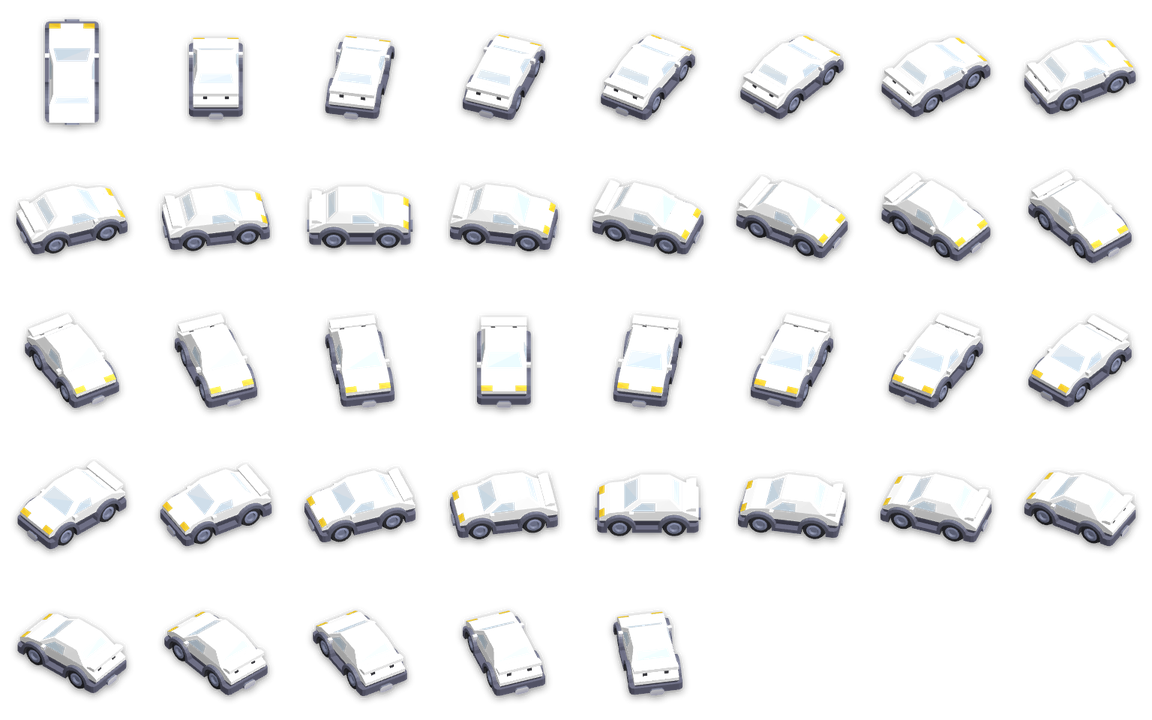
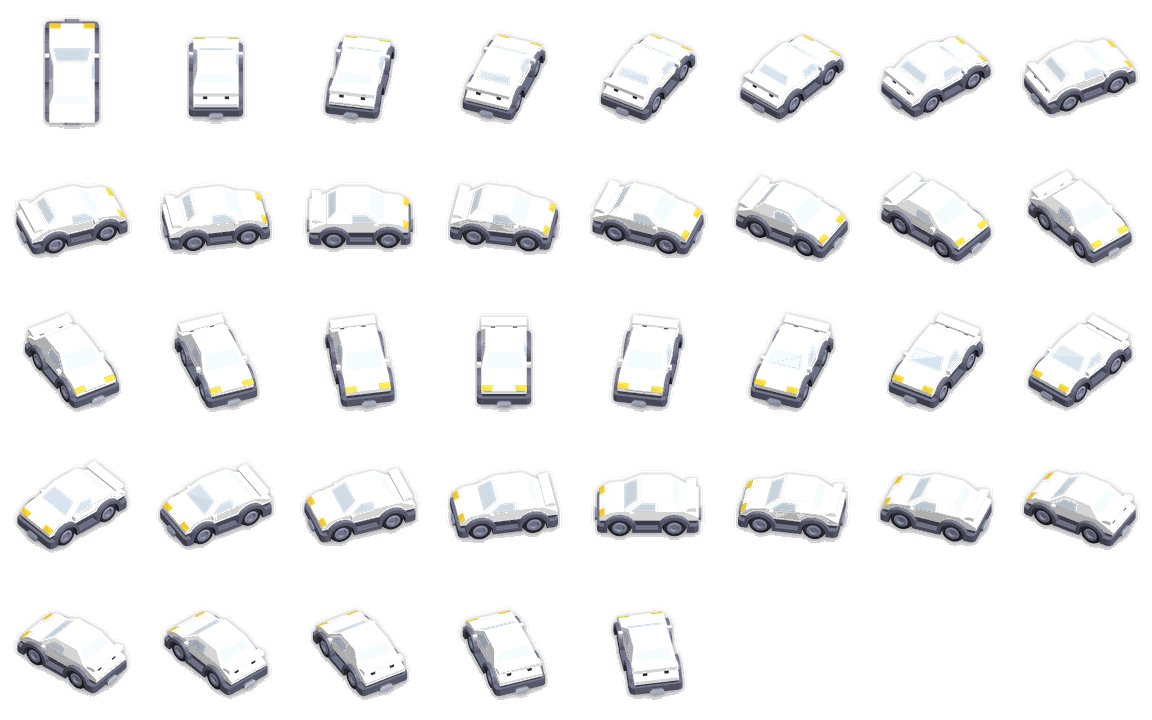
Cabrio als Form, scharfe Vorschau in der Garage (288 px Bogen); Haupt Reiter Inter ExtraBold, inaktiv dunkler (Variante D)
Claude-Session: https://claude.ai/code/session_01SXf38QvTJENXvqTHvojj2Z

diff --git a/app/src/components/map/car-sprite.tsx b/app/src/components/map/car-sprite.tsx
@@ -12,12 +12,13 @@ import { Gesture, GestureDetector, GestureHandlerRootView } from 'react-native-g
 
 import type { Vehicle } from '@/lib/vehicle';
 
-export type CarForm = 'coupe' | 'coupe-fluegel' | 'fastback' | 'limousine' | 'gelaende';
+export type CarForm = 'coupe' | 'coupe-fluegel' | 'cabrio' | 'fastback' | 'limousine' | 'gelaende';
 export type CarLook = { form: CarForm; color: string };
 
 export const CAR_FORMS: { id: CarForm; label: string }[] = [
   { id: 'coupe', label: 'Coupé' },
   { id: 'coupe-fluegel', label: 'Coupé mit Flügel' },
+  { id: 'cabrio', label: 'Cabrio' },
   { id: 'fastback', label: 'Fastback' },
   { id: 'limousine', label: 'Limousine' },
   { id: 'gelaende', label: 'Geländewagen' },
@@ -36,12 +37,15 @@ export const CAR_COLORS: { id: string; label: string }[] = [
 
 export const DEFAULT_LOOK: CarLook = { form: 'coupe', color: '#C4161C' };
 
-const SHEETS: Record<CarForm, { o: number; m: number }> = {
-  coupe: { o: require('@/assets/cars/coupe-o.png'), m: require('@/assets/cars/coupe-m.png') },
-  'coupe-fluegel': { o: require('@/assets/cars/sedan-sports-o.png'), m: require('@/assets/cars/sedan-sports-m.png') },
-  fastback: { o: require('@/assets/cars/hatchback-sports-o.png'), m: require('@/assets/cars/hatchback-sports-m.png') },
-  limousine: { o: require('@/assets/cars/sedan-o.png'), m: require('@/assets/cars/sedan-m.png') },
-  gelaende: { o: require('@/assets/cars/suv-o.png'), m: require('@/assets/cars/suv-m.png') },
+type Sheet = { o: number; m: number; ol: number; ml: number };
+/** Je Form ein Bogen für die Karte (144 px je Ansicht) und einer für die Vorschau in der Garage (288 px) */
+const SHEETS: Record<CarForm, Sheet> = {
+  coupe: { o: require('@/assets/cars/coupe-o.png'), m: require('@/assets/cars/coupe-m.png'), ol: require('@/assets/cars/coupe-o-l.png'), ml: require('@/assets/cars/coupe-m-l.png') },
+  'coupe-fluegel': { o: require('@/assets/cars/sedan-sports-o.png'), m: require('@/assets/cars/sedan-sports-m.png'), ol: require('@/assets/cars/sedan-sports-o-l.png'), ml: require('@/assets/cars/sedan-sports-m-l.png') },
+  cabrio: { o: require('@/assets/cars/cabrio-o.png'), m: require('@/assets/cars/cabrio-m.png'), ol: require('@/assets/cars/cabrio-o-l.png'), ml: require('@/assets/cars/cabrio-m-l.png') },
+  fastback: { o: require('@/assets/cars/hatchback-sports-o.png'), m: require('@/assets/cars/hatchback-sports-m.png'), ol: require('@/assets/cars/hatchback-sports-o-l.png'), ml: require('@/assets/cars/hatchback-sports-m-l.png') },
+  limousine: { o: require('@/assets/cars/sedan-o.png'), m: require('@/assets/cars/sedan-m.png'), ol: require('@/assets/cars/sedan-o-l.png'), ml: require('@/assets/cars/sedan-m-l.png') },
+  gelaende: { o: require('@/assets/cars/suv-o.png'), m: require('@/assets/cars/suv-m.png'), ol: require('@/assets/cars/suv-o-l.png'), ml: require('@/assets/cars/suv-m-l.png') },
 };
 
 /** Ansicht für die Fahrtrichtung relativ zur Kamera in Grad (0 = von hinten, Auto fährt nach oben) */
@@ -56,8 +60,9 @@ export function CarSprite({ look, frame, size, rotation }: { look: CarLook; fram
   const img = { position: 'absolute' as const, width: size * 8, height: size * 5, left: -col * size, top: -row * size };
   return (
     <View style={[styles.box, { width: size, height: size }, rotation ? { transform: [{ rotate: `${rotation}deg` }] } : null]} pointerEvents="none">
-      <Image source={sheet.m} style={[img, { tintColor: look.color }]} fadeDuration={0} />
-      <Image source={sheet.o} style={img} fadeDuration={0} />
+      {/* ab 80 pt der scharfe Bogen (Vorschau), auf der Karte der kleine */}
+      <Image source={size > 80 ? sheet.ml : sheet.m} style={[img, { tintColor: look.color }]} fadeDuration={0} />
+      <Image source={size > 80 ? sheet.ol : sheet.o} style={img} fadeDuration={0} />
     </View>
   );
 }

diff --git a/app/src/components/planner/web-styles.ts b/app/src/components/planner/web-styles.ts
@@ -24,8 +24,8 @@ export const S: Record<string, CSSProperties> = {
   navOn: { height: 44, padding: '0 16px', borderRadius: 22, border: 'none', background: C.surface2, color: C.text, font: `700 15px ${BODY}`, cursor: 'pointer' },
   navOff: { height: 44, padding: '0 16px', borderRadius: 22, border: 'none', background: 'transparent', color: C.muted, font: `700 15px ${BODY}`, cursor: 'pointer' },
   typoTabs: { display: 'flex', gap: 18, padding: '12px 24px 4px', alignItems: 'baseline' },
-  typoOn: { background: 'none', border: 'none', padding: 0, cursor: 'pointer', fontFamily: BODY, fontWeight: 700, fontSize: 26, color: C.text, lineHeight: 1.25 },
-  typoOff: { background: 'none', border: 'none', padding: 0, cursor: 'pointer', fontFamily: BODY, fontWeight: 700, fontSize: 26, color: '#6E6E73', lineHeight: 1.25 },
+  typoOn: { background: 'none', border: 'none', padding: 0, cursor: 'pointer', fontFamily: BODY, fontWeight: 800, letterSpacing: -0.3, fontSize: 26, color: C.text, lineHeight: 1.25 },
+  typoOff: { background: 'none', border: 'none', padding: 0, cursor: 'pointer', fontFamily: BODY, fontWeight: 800, letterSpacing: -0.3, fontSize: 26, color: '#57575C', lineHeight: 1.25 },
   tabHint: { color: C.muted, margin: '6px 24px 0', fontSize: 15, lineHeight: 1.4 },
   acc: { display: 'flex', flexDirection: 'column', borderTop: `1px solid ${C.surface2}` },
   accHead: { display: 'flex', alignItems: 'center', gap: 12, padding: '16px 0', background: 'none', border: 'none', color: C.text, cursor: 'pointer', textAlign: 'left' },

diff --git a/app/src/app/_layout.tsx b/app/src/app/_layout.tsx
@@ -8,6 +8,7 @@ import { Inter_400Regular } from '@expo-google-fonts/inter/400Regular';
 import { Inter_500Medium } from '@expo-google-fonts/inter/500Medium';
 import { Inter_600SemiBold } from '@expo-google-fonts/inter/600SemiBold';
 import { Inter_700Bold } from '@expo-google-fonts/inter/700Bold';
+import { Inter_800ExtraBold } from '@expo-google-fonts/inter/800ExtraBold';
 import { useFonts } from 'expo-font';
 
 import { loadHighlightFeedback } from '@/lib/highlight-feedback';
@@ -56,6 +57,7 @@ export default function RootLayout() {
     Inter_500Medium,
     Inter_600SemiBold,
     Inter_700Bold,
+    Inter_800ExtraBold,
   });
 
   // In der App nur mit Konto: Touren, Fahrten und Fahrzeuge liegen im Konto (der Web Planer bleibt offen)

diff --git a/app/src/components/planner/planner-styles.ts b/app/src/components/planner/planner-styles.ts
@@ -46,7 +46,7 @@ export const styles = StyleSheet.create({
 
   typoTabs: { flexDirection: 'row', flexWrap: 'wrap', alignItems: 'baseline', columnGap: 20 },
   // Reiter sind Bedienelemente: Inter Bold, normal geschrieben (Koray 9.11.)
-  typoTab: { fontFamily: Fonts.bold, fontSize: Type.tab, lineHeight: Leading.tab, color: Colors.faint },
+  typoTab: { fontFamily: Fonts.extrabold, fontSize: Type.tab, lineHeight: Leading.tab, letterSpacing: -0.3, color: Colors.tabOff },
   typoTabOn: { color: Colors.text },
   segment: { flexDirection: 'row', backgroundColor: Colors.surface, borderRadius: Radius.pill, padding: Spacing.xs },
   segItem: { flex: 1, height: 38, borderRadius: Radius.pill, alignItems: 'center', justifyContent: 'center' },

diff --git a/app/src/constants/theme.ts b/app/src/constants/theme.ts
@@ -13,6 +13,8 @@ export const Colors = {
   muted: '#9A9A9F',
   /** Inaktive Typo Tabs: deutlich zurückgenommen, ab 24 px noch über 3 zu 1 auf ground. */
   faint: '#6E6E73',
+  /** Inaktive Haupt Reiter, deutlich zurück (Variante D, etwa 2,7 zu 1, bewusst gewählt) */
+  tabOff: '#57575C',
   signal: '#E2461C',
   good: '#4CC38A',
   warn: '#E8B03A',
@@ -97,6 +99,8 @@ export const Fonts = {
   medium: 'Inter_500Medium',
   semibold: 'Inter_600SemiBold',
   bold: 'Inter_700Bold',
+  /** Haupt Reiter (Tour planen, Rundtour; Gespeichert, Gefahren), Koray 9.11. Variante D */
+  extrabold: 'Inter_800ExtraBold',
 } as const;
 
 export const Spacing = {

diff --git a/app/src/lib/vehicle.ts b/app/src/lib/vehicle.ts
@@ -26,7 +26,7 @@ export type Vehicle = {
   /** Symbol auf der Karte: Pfeil oder das eigene Auto (gts997 war der Test vom 6.11., gilt wie auto) */
   mapSymbol?: 'pfeil' | 'gts997' | 'auto';
   /** Form und Lackfarbe des Kartensymbols (components/map/car-sprite.tsx) */
-  look?: { form: 'coupe' | 'coupe-fluegel' | 'fastback' | 'limousine' | 'gelaende'; color: string };
+  look?: { form: 'coupe' | 'coupe-fluegel' | 'cabrio' | 'fastback' | 'limousine' | 'gelaende'; color: string };
 };
 
 export const FUELS: { id: Fuel; label: string }[] = [

diff --git a/app/assets/cars/README.md b/app/assets/cars/README.md
@@ -1,13 +1,14 @@
 # Kartensymbole der Fahrzeuge
 
 Platzhalter aus dem Kenney Car Kit 3.1, Lizenz CC0 (https://kenney.nl, Creative Commons Zero).
-Modelle: sedan-sports (Coupé mit Flügel, ohne Spoiler als Coupé), hatchback-sports (Fastback), sedan (Limousine), suv (Geländewagen).
+Modelle: sedan-sports (Coupé mit Flügel, ohne Spoiler als Coupé, ohne Dach als Cabrio), hatchback-sports (Fastback), sedan (Limousine), suv (Geländewagen).
 
 Je Form zwei Bogen mit 8 x 5 Feldern zu 144 px, 37 Ansichten:
 - Feld 0: Draufsicht, Front oben
 - Feld 1 bis 36: 42 Grad von oben, Fahrtrichtung 0 bis 350 Grad relativ zur Kamera (0 = von hinten)
 - `*-m.png`: Maske des Lacks (wird per tintColor gefärbt)
 - `*-o.png`: alles andere mit Schatten auf dem Lack, Kontur und Bodenschatten
+- `*-l.png`: dieselben Bogen mit 288 px je Ansicht für die Vorschau in der Garage
 
 Erzeugt mit three.js in Chromium (Renderer und Skripte im Scratchpad der Sitzung vom 9.11.2026).
 Später ersetzen die Modelle des 3D Designers diese Bogen in gleichem Format.
